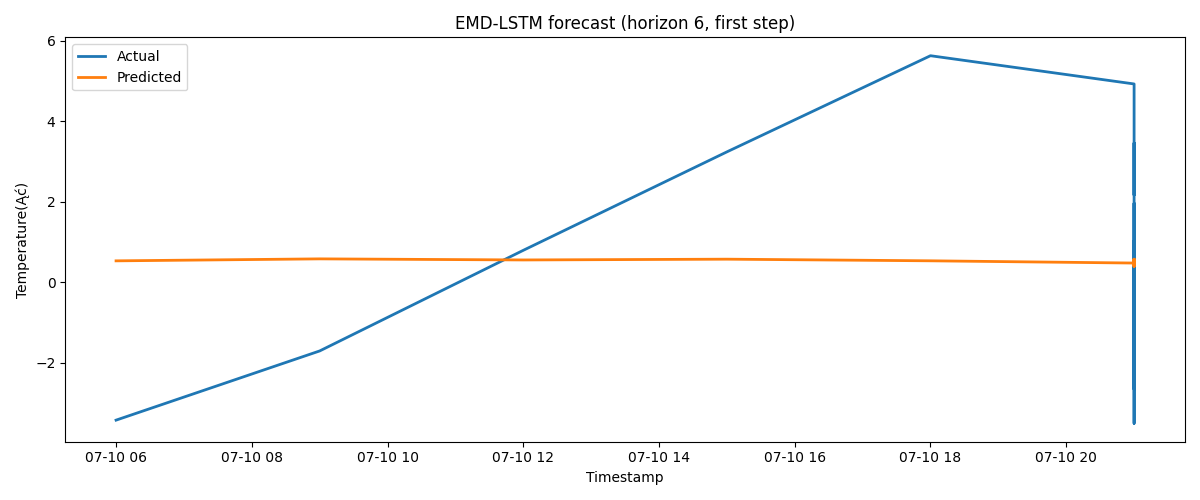
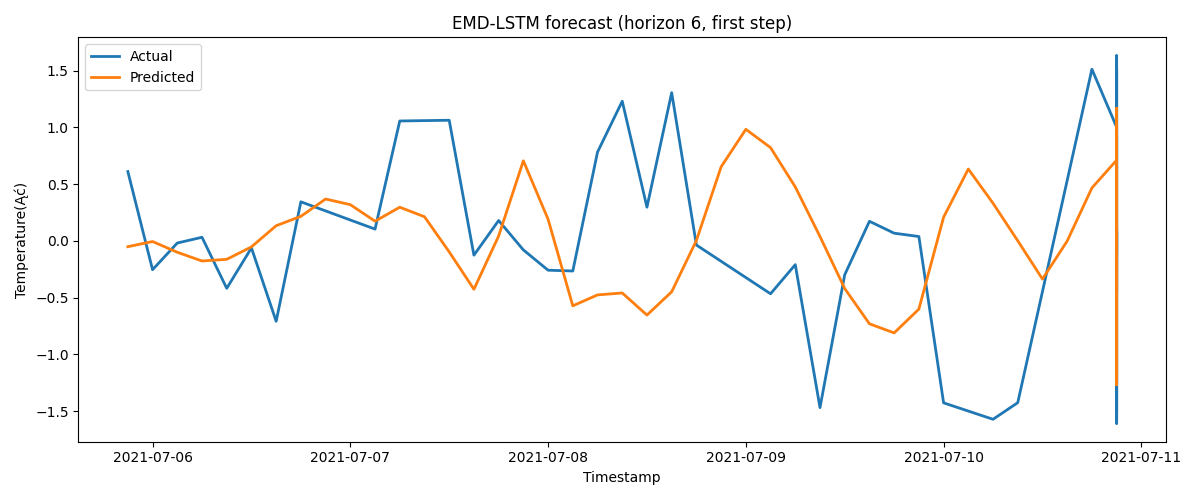
修复EMD分解阻塞的问题

diff --git a/src/EMD_LSTM/emd_lstm.py b/src/EMD_LSTM/emd_lstm.py
@@ -3,10 +3,11 @@ from __future__ import annotations
 import math
 import random
 import time
+import threading
 from datetime import datetime
 from dataclasses import dataclass
 from pathlib import Path
-from typing import List, Optional, Sequence, Tuple
+from typing import Any, List, Optional, Sequence, Tuple
 
 import numpy as np
 import pandas as pd
@@ -36,12 +37,17 @@ class ExperimentConfig:
     device: Optional[str] = None
     max_imfs: Optional[int] = 8
     max_points: Optional[int] = 2000
+    plot_last_days: Optional[int] = None
     plot_path: Optional[Path] = None
     log_path: Optional[Path] = None
     log_every: int = 1
     verbose: bool = True
     cudnn_benchmark: bool = True
     matmul_precision: Optional[str] = "high"
+    emd_log_interval: int = 300
+    max_samples: Optional[int] = None
+    emd_max_sift: Optional[int] = None
+    emd_spline_kind: Optional[str] = "slinear"
 
 
 def _log_message(cfg: ExperimentConfig, message: str) -> None:
@@ -77,6 +83,10 @@ def _log_header(cfg: ExperimentConfig) -> None:
         f"max_imfs={cfg.max_imfs}",
         f"matmul_precision={cfg.matmul_precision}",
         f"cudnn_benchmark={cfg.cudnn_benchmark}",
+        f"emd_log_interval={cfg.emd_log_interval}",
+        f"max_samples={cfg.max_samples}",
+        f"emd_max_sift={cfg.emd_max_sift}",
+        f"emd_spline_kind={cfg.emd_spline_kind}",
         "=" * 80,
     ]
     cfg.log_path.parent.mkdir(parents=True, exist_ok=True)
@@ -242,7 +252,7 @@ def prepare_series(cfg: ExperimentConfig) -> Tuple[pd.Series, np.ndarray, np.nda
     return target, features, timestamps
 
 
-def decompose_signal(signal: np.ndarray) -> Tuple[np.ndarray, np.ndarray]:
+def decompose_signal(signal: np.ndarray, cfg: ExperimentConfig) -> Tuple[np.ndarray, np.ndarray]:
     try:
         from PyEMD import EMD  # type: ignore
     except ImportError as exc:
@@ -250,15 +260,21 @@ def decompose_signal(signal: np.ndarray) -> Tuple[np.ndarray, np.ndarray]:
             "PyEMD is required for EMD decomposition. Install with `pip install EMD-signal`."
         ) from exc
 
-    emd = EMD()
+    emd_kwargs: dict[str, Any] = {}
+    if cfg.emd_max_sift is not None:
+        emd_kwargs["max_sift"] = cfg.emd_max_sift
+    if cfg.max_imfs is not None:
+        emd_kwargs["max_imf"] = cfg.max_imfs
+    if cfg.emd_spline_kind:
+        emd_kwargs["spline_kind"] = str(cfg.emd_spline_kind)
+
+    emd = EMD(**emd_kwargs) if emd_kwargs else EMD()
     imfs = emd.emd(signal)
     if imfs.size == 0:
         residue = signal
     else:
         residue = signal - np.sum(imfs, axis=0)
     return imfs, residue
-
-
 def build_datasets(
     features: np.ndarray,
     target: np.ndarray,
@@ -379,6 +395,13 @@ def run_experiment(cfg: ExperimentConfig) -> Tuple[np.ndarray, np.ndarray, np.nd
     target, features, timestamps = prepare_series(cfg)
     signal = target.to_numpy(dtype=np.float32)
 
+    if cfg.max_samples is not None and cfg.max_samples > 0 and len(signal) > cfg.max_samples:
+        start_idx = len(signal) - cfg.max_samples
+        _log_message(cfg, f"Truncating to last {cfg.max_samples} samples (from {len(signal)})")
+        signal = signal[start_idx:]
+        features = features[start_idx:]
+        timestamps = timestamps[start_idx:]
+
     min_required = cfg.input_window + cfg.horizon
     if len(signal) < min_required * 2:
         raise ValueError("Not enough samples for the requested window/horizon.")
@@ -387,9 +410,26 @@ def run_experiment(cfg: ExperimentConfig) -> Tuple[np.ndarray, np.ndarray, np.nd
     split_idx = max(split_idx, min_required)
     split_idx = min(split_idx, len(signal) - min_required)
 
-    _log_message(cfg, "Starting EMD decomposition...")
+    extrema = (
+        int(np.sum(np.diff(np.sign(np.diff(signal))) != 0)) if len(signal) > 2 else 0
+    )
+    _log_message(cfg, f"Starting EMD decomposition (samples={len(signal)}, extrema={extrema})...")
     emd_start = time.time()
-    imfs, residue = decompose_signal(signal)
+    stop_event = threading.Event()
+
+    def _emd_heartbeat() -> None:
+        while not stop_event.wait(cfg.emd_log_interval):
+            elapsed = time.time() - emd_start
+            _log_message(cfg, f"EMD still running... elapsed {elapsed:.1f}s")
+
+    heartbeat_thread: Optional[threading.Thread] = None
+    if cfg.emd_log_interval > 0:
+        heartbeat_thread = threading.Thread(target=_emd_heartbeat, daemon=True)
+        heartbeat_thread.start()
+    imfs, residue = decompose_signal(signal, cfg)
+    stop_event.set()
+    if heartbeat_thread is not None:
+        heartbeat_thread.join(timeout=1.0)
     _log_message(cfg, f"EMD decomposition done in {time.time() - emd_start:.1f}s")
     if cfg.max_imfs is not None and imfs.shape[0] > cfg.max_imfs:
         imfs = imfs[: cfg.max_imfs]
@@ -427,12 +467,26 @@ def run_experiment(cfg: ExperimentConfig) -> Tuple[np.ndarray, np.ndarray, np.nd
         plot_path.parent.mkdir(parents=True, exist_ok=True)
 
         values_to_plot = slice(None)
-        if cfg.max_points is not None and cfg.max_points > 0:
+        time_to_plot = time_axis
+        preds_to_plot = preds_sum[:, 0]
+        targets_to_plot = targets_sum[:, 0]
+
+        if cfg.plot_last_days is not None and cfg.plot_last_days > 0:
+            cutoff = time_axis[-1] - np.timedelta64(cfg.plot_last_days, "D")
+            mask = time_axis >= cutoff
+            if mask.any():
+                time_to_plot = time_axis[mask]
+                preds_to_plot = preds_sum[:, 0][mask]
+                targets_to_plot = targets_sum[:, 0][mask]
+        elif cfg.max_points is not None and cfg.max_points > 0:
             values_to_plot = slice(-cfg.max_points, None)
+            time_to_plot = time_axis[values_to_plot]
+            preds_to_plot = preds_sum[:, 0][values_to_plot]
+            targets_to_plot = targets_sum[:, 0][values_to_plot]
 
         plt.figure(figsize=(12, 5))
-        plt.plot(time_axis[values_to_plot], targets_sum[:, 0][values_to_plot], label="Actual", linewidth=2)
-        plt.plot(time_axis[values_to_plot], preds_sum[:, 0][values_to_plot], label="Predicted", linewidth=2)
+        plt.plot(time_to_plot, targets_to_plot, label="Actual", linewidth=2)
+        plt.plot(time_to_plot, preds_to_plot, label="Predicted", linewidth=2)
         plt.title(f"EMD-LSTM forecast (horizon {cfg.horizon}, first step)")
         plt.xlabel("Timestamp")
         plt.ylabel(cfg.target_col)

diff --git a/scripts/emd_lstm.py b/scripts/emd_lstm.py
@@ -47,10 +47,34 @@ def parse_args() -> argparse.Namespace:
     parser.add_argument("--log-every", type=int, default=1, help="Log every N epochs.")
     parser.add_argument("--quiet", action="store_true", help="Disable console logging.")
     parser.add_argument(
+        "--emd-log-interval",
+        type=int,
+        default=300,
+        help="Seconds between EMD heartbeat logs (0 to disable).",
+    )
+    parser.add_argument(
         "--max-imfs",
         type=int,
         default=8,
         help="Maximum number of IMFs to model (use 0 for all).",
+    )
+    parser.add_argument(
+        "--max-samples",
+        type=int,
+        default=None,
+        help="Use only the last N samples for EMD/training (skip if not set).",
+    )
+    parser.add_argument(
+        "--emd-max-sift",
+        type=int,
+        default=None,
+        help="Maximum sifting iterations per IMF (PyEMD max_sift).",
+    )
+    parser.add_argument(
+        "--emd-spline-kind",
+        type=str,
+        default="slinear",
+        help="Spline kind for PyEMD (e.g., slinear/cubic).",
     )
     parser.add_argument(
         "--plot",
@@ -89,6 +113,10 @@ def main() -> None:
         log_path=args.log_path,
         log_every=args.log_every,
         verbose=not args.quiet,
+        emd_log_interval=args.emd_log_interval,
+        max_samples=args.max_samples,
+        emd_max_sift=args.emd_max_sift,
+        emd_spline_kind=args.emd_spline_kind,
         max_imfs=None if args.max_imfs == 0 else args.max_imfs,
         max_points=None if args.max_points == 0 else args.max_points,
         plot_path=args.plot,
